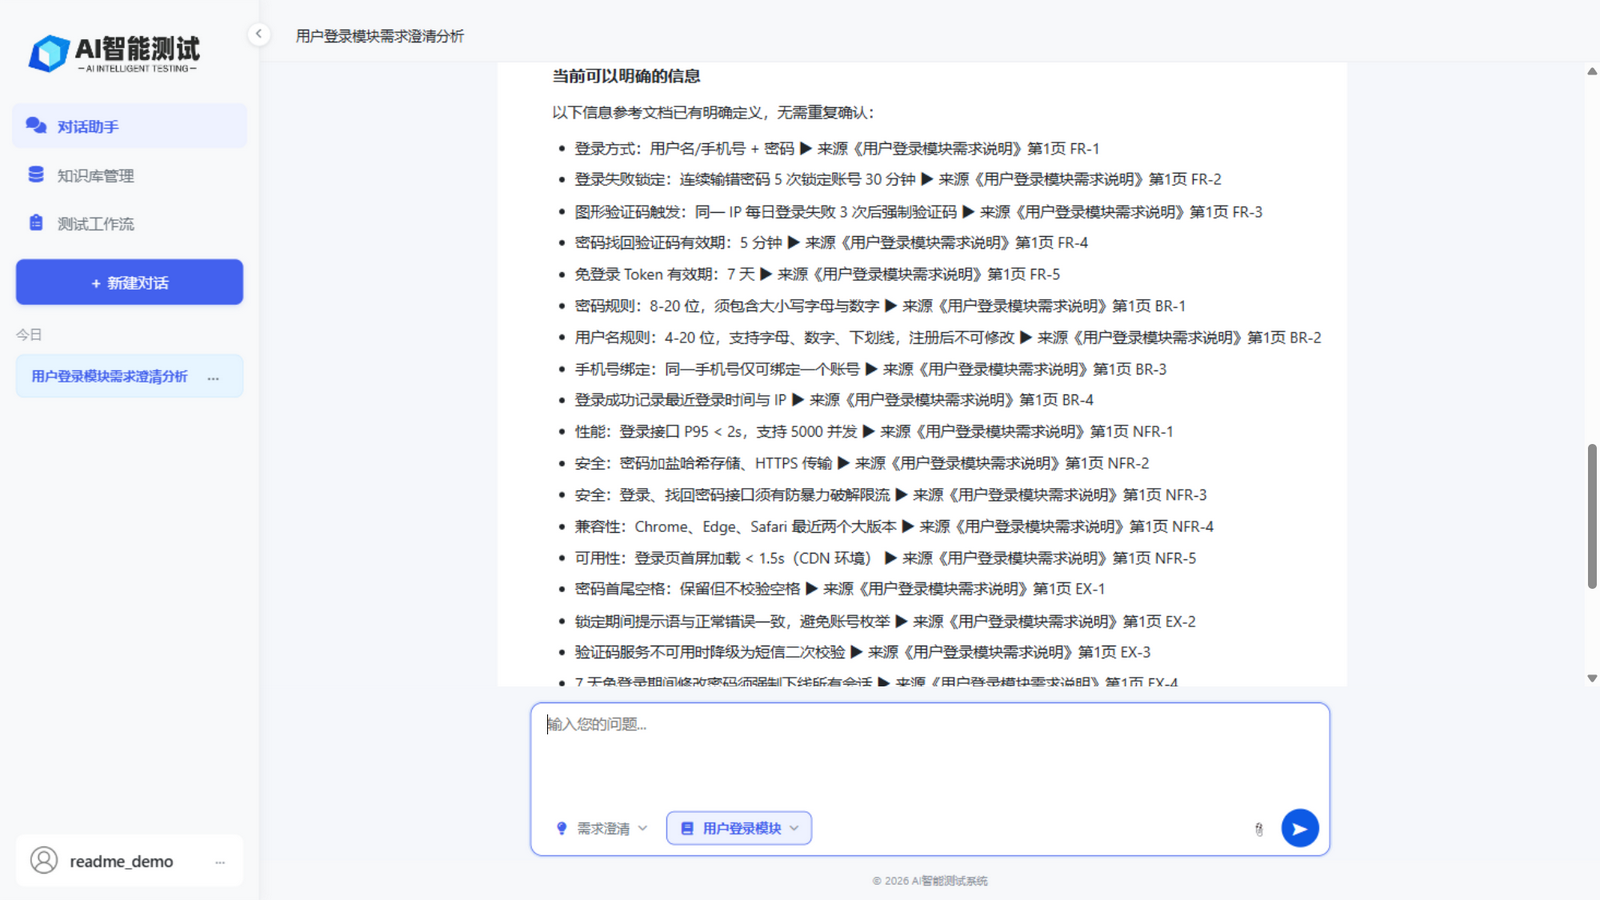
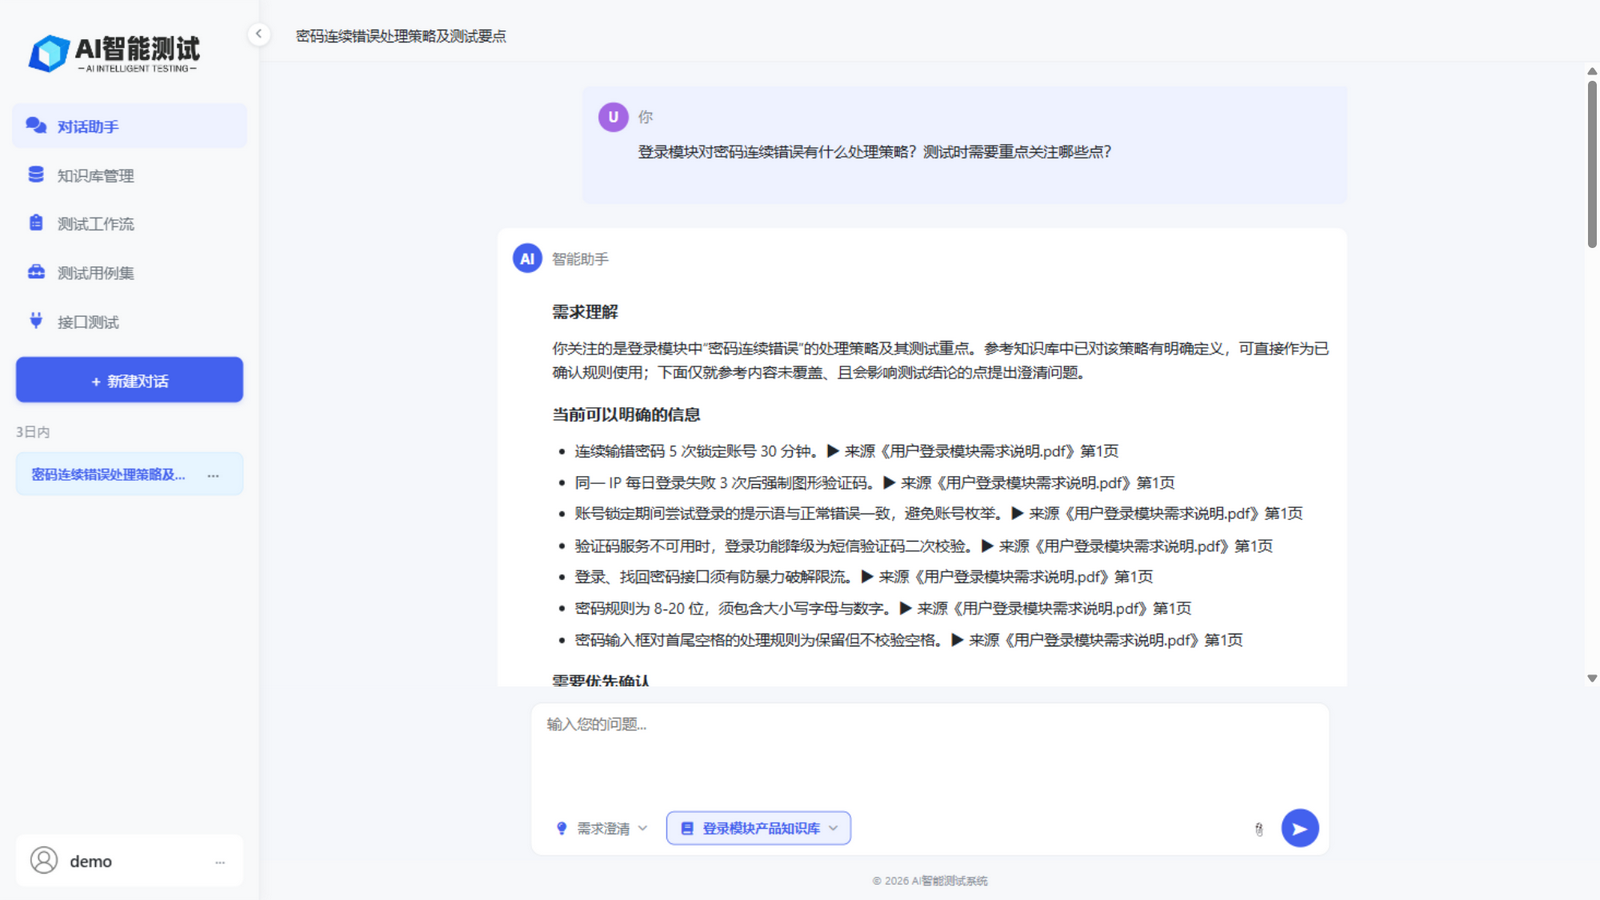
docs: 更新 README 截图至最新界面并补充执行结果图
- 全部 10 张截图基于新导航（测试用例集/接口测试独立一级菜单）重新截取
- 接口测试新增第二张图：执行结果与失败诊断（端点标签、响应头/响应体）
- 入口文案按实际菜单核对为「测试工作流」，中英文同步

diff --git a/README_EN.md b/README_EN.md
@@ -95,7 +95,7 @@ flowchart LR
 
 ## 🧩 Structured Testing Workflow (LangGraph)
 
-Beyond scenario-based chat, the system ships a real testing workflow orchestrated by **LangGraph** (entry: "测试任务" (Test Tasks) in the sidebar or `/workflows`):
+Beyond scenario-based chat, the system ships a real testing workflow orchestrated by **LangGraph** (entry: "测试工作流" (Testing Workflow) in the sidebar or `/workflows`):
 
 ```text
 START
@@ -136,9 +136,9 @@ END
 | --- | --- |
 | ![Knowledge Base](docs/images/kb_management.png) | ![Chat Attachment](docs/images/chat_attachment.png) |
 
-| API Testing (import / case generation / batch execution) | |
+| API Testing (batch selection & grouped case editing) | Run Results & Failure Diagnostics (headers / body) |
 | --- | --- |
-| ![API Testing](docs/images/api_workbench.png) | |
+| ![API Testing](docs/images/api_workbench.png) | ![Run Results](docs/images/api_run_results.png) |
 
 | Test Case Sets (case-set assets) | Case-Set Detail (edit / versions / rollback) | Field-Level Version Diff |
 | --- | --- | --- |
@@ -295,7 +295,7 @@ uvicorn main:app --host 0.0.0.0 --port 8000 --reload
 ### 5. Open the Application
 
 - Chat: `http://localhost:8000/chat`
-- Test Tasks: `http://localhost:8000/workflows`
+- Testing Workflow: `http://localhost:8000/workflows`
 - Test Case Sets: `http://localhost:8000/testbench`
 - API Testing: `http://localhost:8000/api-test`
 - Knowledge Base: `http://localhost:8000/knowledge`

diff --git a/README.md b/README.md
@@ -95,7 +95,7 @@ flowchart LR
 
 ## 🧩 结构化测试工作流（LangGraph）
 
-除场景化聊天外，系统还提供一条由 **LangGraph** 编排的真实测试工作流（入口：侧栏「测试任务」或 `/workflows`）：
+除场景化聊天外，系统还提供一条由 **LangGraph** 编排的真实测试工作流（入口：侧栏「测试工作流」或 `/workflows`）：
 
 ```text
 START
@@ -136,9 +136,9 @@ END
 | --- | --- |
 | ![知识库管理](docs/images/kb_management.png) | ![聊天附件](docs/images/chat_attachment.png) |
 
-| 接口测试（导入 / 用例生成 / 批量执行） | |
+| 接口测试（批量选择与分组编辑） | 执行结果与失败诊断（响应头 / 响应体） |
 | --- | --- |
-| ![接口测试](docs/images/api_workbench.png) | |
+| ![接口测试](docs/images/api_workbench.png) | ![执行结果](docs/images/api_run_results.png) |
 
 | 测试用例集（用例集资产） | 用例集详情（编辑 / 版本 / 回滚） | 字段级版本对比 |
 | --- | --- | --- |
@@ -294,7 +294,7 @@ uvicorn main:app --host 0.0.0.0 --port 8000 --reload
 ### 5. 访问页面
 
 - 对话助手：`http://localhost:8000/chat`
-- 测试任务：`http://localhost:8000/workflows`
+- 测试工作流：`http://localhost:8000/workflows`
 - 测试用例集：`http://localhost:8000/testbench`
 - 接口测试：`http://localhost:8000/api-test`
 - 知识库管理：`http://localhost:8000/knowledge`
